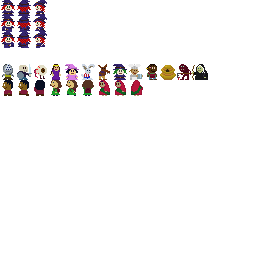
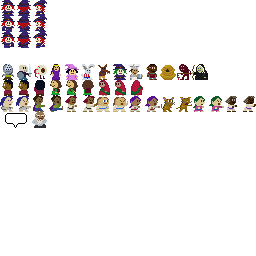
karate kids

Changed region(s): [[0.0, 0.375, 1.0, 0.5], [0.5312, 0.2812, 0.5625, 0.3125], [0.5, 0.25, 0.5312, 0.2812]]

diff --git a/src/game/sprite/types/sprite_karate.c b/src/game/sprite/types/sprite_karate.c
@@ -1,0 +1,187 @@
+/* sprite_karate.c
+ * The little karate students in the gym.
+ * All karates in one scene coordinate with each other.
+ */
+ 
+#include "game/bee.h"
+#include "game/battle/dict.h"
+
+#define KARATE_ATTACK_TIME 0.500
+#define KARATE_IDLE_TIME 1.000
+#define KARATE_INITIAL_DELAY 3.000
+
+/* Object definition.
+ */
+ 
+struct sprite_karate {
+  struct sprite hdr;
+  int principal; // One karate at a time is the principal, and it does most of the work.
+  uint8_t tileid0;
+  double clock;
+  int attacker; // Which karate, counting backward thru GRP(KEEPALIVE), is currently attacking? If <0, nobody is.
+  int otherc;
+  int texid; // Text in word bubble.
+  int texw,texh;
+};
+
+#define SPRITE ((struct sprite_karate*)sprite)
+#define OTHER ((struct sprite_karate*)other)
+
+/* Cleanup.
+ */
+ 
+static void _karate_del(struct sprite *sprite) {
+  egg_texture_del(SPRITE->texid);
+}
+
+/* Init.
+ */
+ 
+static int _karate_init(struct sprite *sprite) {
+  SPRITE->attacker=-1;
+  SPRITE->clock=KARATE_INITIAL_DELAY;
+  
+  int otherc=0;
+  int i=GRP(KEEPALIVE)->spritec;
+  while (i-->0) {
+    const struct sprite *other=GRP(KEEPALIVE)->spritev[i];
+    if (other==sprite) continue;
+    if (other->type==&sprite_type_karate) {
+      otherc++;
+    }
+  }
+  if (!otherc) {
+    SPRITE->principal=1;
+  } else {
+    sprite->xform=(otherc&1)?EGG_XFORM_XREV:0;
+    sprite->tileid+=(otherc&7)*2;
+  }
+  SPRITE->tileid0=sprite->tileid;
+  
+  return 0;
+}
+
+/* Pick one of the karate sprites at random, update local state, and return it.
+ */
+ 
+static struct sprite *karate_get_next_attacker(struct sprite *sprite) {
+  SPRITE->attacker=-1;
+  
+  // Count the karate sprites, including myself. This is done lazy at the first update.
+  if (SPRITE->otherc<1) {
+    SPRITE->otherc=0;
+    int i=GRP(KEEPALIVE)->spritec;
+    while (i-->0) {
+      struct sprite *other=GRP(KEEPALIVE)->spritev[i];
+      if (other->type!=&sprite_type_karate) continue;
+      SPRITE->otherc++;
+    }
+    if (SPRITE->otherc<1) return 0; // huh?
+  }
+  
+  // Pick one. I think random is better than sequential.
+  int p=rand()%SPRITE->otherc;
+  int i=GRP(KEEPALIVE)->spritec;
+  while (i-->0) {
+    struct sprite *other=GRP(KEEPALIVE)->spritev[i];
+    if (other->type!=&sprite_type_karate) continue;
+    SPRITE->attacker++;
+    if (!p--) return other;
+  }
+  
+  // Oops.
+  SPRITE->attacker=-1;
+  return 0;
+}
+
+/* Current attacker.
+ */
+ 
+static struct sprite *karate_get_current_attacker(const struct sprite *sprite) {
+  if (SPRITE->attacker<0) return 0;
+  int p=SPRITE->attacker;
+  int i=GRP(KEEPALIVE)->spritec;
+  while (i-->0) {
+    struct sprite *other=GRP(KEEPALIVE)->spritev[i];
+    if (other->type!=&sprite_type_karate) continue;
+    if (!p--) return other;
+  }
+  return 0;
+}
+
+/* Pick a 2-letter word and render it to SPRITE->texid.
+ */
+ 
+static void karate_refresh_word(struct sprite *sprite) {
+  struct dict_bucket bucket={0};
+  dict_get_bucket(&bucket,RID_dict_nwl2023,2);
+  if (bucket.c<1) return;
+  int p=rand()%bucket.c;
+  char word[3]={0,0,'!'};
+  memcpy(word,bucket.v+p*3,2);
+  egg_texture_del(SPRITE->texid);
+  SPRITE->texid=font_tex_oneline(g.font,word,3,TILESIZE*2,0x000000ff);
+  egg_texture_get_status(&SPRITE->texw,&SPRITE->texh,SPRITE->texid);
+}
+
+/* Update.
+ */
+ 
+static void _karate_update(struct sprite *sprite,double elapsed) {
+  if (!SPRITE->principal) return;
+  if ((SPRITE->clock-=elapsed)>0.0) return;
+  
+  // Pick somebody to start attacking.
+  if (SPRITE->attacker<0) {
+    SPRITE->clock+=KARATE_ATTACK_TIME;
+    struct sprite *other=karate_get_next_attacker(sprite);
+    if (!other) return; // Should never happen; we are a karate too.
+    OTHER->hdr.tileid=OTHER->tileid0+1;
+    karate_refresh_word(sprite);
+    return;
+  }
+  
+  // End the current attack.
+  SPRITE->clock+=KARATE_IDLE_TIME;
+  struct sprite *other=karate_get_current_attacker(sprite);
+  if (!other) return;
+  OTHER->hdr.tileid=OTHER->tileid0;
+  SPRITE->attacker=-1;
+}
+
+/* Bump.
+ */
+ 
+static void _karate_bump(struct sprite *sprite) {
+  int index=20+rand()%5;
+  modal_message_begin_single(RID_strings_dialogue,index);
+}
+
+/* Render word bubble.
+ * Regular rendering uses the built-in facilities.
+ */
+ 
+static void _karate_render_post(struct sprite *sprite,int16_t addx,int16_t addy) {
+  if (!SPRITE->principal) return;
+  struct sprite *other=karate_get_current_attacker(sprite);
+  if (!other) return;
+  int texid=texcache_get_image(&g.texcache,sprite->imageid);
+  int16_t dstx=(int16_t)(other->x*TILESIZE)+addx;
+  int16_t dsty=(int16_t)(other->y*TILESIZE)+addy;
+  graf_draw_tile(&g.graf,texid,dstx-(TILESIZE>>1),dsty-TILESIZE,SPRITE->tileid0+0x10,0);
+  graf_draw_tile(&g.graf,texid,dstx+(TILESIZE>>1),dsty-TILESIZE,SPRITE->tileid0+0x11,0);
+  graf_draw_decal(&g.graf,SPRITE->texid,dstx-(SPRITE->texw>>1),dsty-TILESIZE-(SPRITE->texh>>1)-1,0,0,SPRITE->texw,SPRITE->texh,0);
+}
+
+/* Type definition.
+ */
+ 
+const struct sprite_type sprite_type_karate={
+  .name="karate",
+  .objlen=sizeof(struct sprite_karate),
+  .del=_karate_del,
+  .init=_karate_init,
+  .update=_karate_update,
+  .render_post=_karate_render_post,
+  .bump=_karate_bump,
+};

diff --git a/src/tool/tool_compile_sprite.c b/src/tool/tool_compile_sprite.c
@@ -19,6 +19,34 @@ static int sprtid_eval(const char *src,int srcc) {
   return -1;
 }
 
+/* Sprite group names.
+ * Zero if invalid. Only valid if at least one group name is present.
+ */
+ 
+static int eval_sprite_group(const char *src,int srcc) {
+  #define _(lower,upper) if ((srcc==sizeof(#lower)-1)&&!memcmp(src,#lower,srcc)) return SPRITE_GROUP_##upper;
+  _(visible,VISIBLE)
+  _(update,UPDATE)
+  _(hero,HERO)
+  _(solid,SOLID)
+  #undef _
+  return 0;
+}
+ 
+static int eval_sprite_groups(const char *src,int srcc) {
+  int srcp=0,groups=0;
+  while (srcp<srcc) {
+    if (src[srcp]==',') { srcp++; continue; }
+    const char *token=src+srcp;
+    int tokenc=0;
+    while ((srcp<srcc)&&(src[srcp++]!=',')) tokenc++;
+    int group=eval_sprite_group(token,tokenc);
+    if (!group) return 0;
+    groups|=group;
+  }
+  return groups;
+}
+
 /* Custom parameters.
  */
  
@@ -28,6 +56,13 @@ static int eval_sprite_param(struct sr_encoder *dst,const char *src,int srcc) {
   int sprtid=sprtid_eval(src,srcc);
   if (sprtid>=0) {
     if (sr_encode_intbe(dst,sprtid,2)<0) return -1;
+    return 1;
+  }
+  
+  // Comma-delimited group names emit as 4 bytes.
+  int groups=eval_sprite_groups(src,srcc);
+  if (groups) {
+    if (sr_encode_intbe(dst,groups,4)<0) return -1;
     return 1;
   }
   

diff --git a/src/game/sprite/sprite_group.c b/src/game/sprite/sprite_group.c
@@ -216,7 +216,8 @@ void sprite_group_update(struct sprite_group *group,double elapsed) {
   
 void sprite_group_render(struct sprite_group *group,int16_t addx,int16_t addy) {
   //TODO sort?
-  int imageid=0,texid=0;
+  //TODO don't render if fully offscreen.
+  int imageid=0,texid=0,has_post=0;
   int i=0; for (;i<group->spritec;i++) {
     struct sprite *sprite=group->spritev[i];
     if (sprite->type->render) {
@@ -230,6 +231,15 @@ void sprite_group_render(struct sprite_group *group,int16_t addx,int16_t addy) {
       int16_t dstx=(int16_t)(sprite->x*TILESIZE)+addx;
       int16_t dsty=(int16_t)(sprite->y*TILESIZE)+addy;
       graf_draw_tile(&g.graf,texid,dstx,dsty,sprite->tileid,sprite->xform);
+    }
+    if (sprite->type->render_post) has_post=1;
+  }
+  if (has_post) {
+    for (i=0;i<group->spritec;i++) {
+      struct sprite *sprite=group->spritev[i];
+      if (sprite->type->render_post) {
+        sprite->type->render_post(sprite,addx,addy);
+      }
     }
   }
 }

diff --git a/src/game/sprite/types/sprite_dialogue.c b/src/game/sprite/types/sprite_dialogue.c
@@ -1,0 +1,29 @@
+/* sprite_dialogue.c
+ * A dummy sprite that speaks when bumped.
+ */
+ 
+#include "game/bee.h"
+ 
+struct sprite_dialogue {
+  struct sprite hdr;
+  int stringsid,index;
+};
+
+#define SPRITE ((struct sprite_dialogue*)sprite)
+
+static int _dialogue_init(struct sprite *sprite) {
+  SPRITE->stringsid=sprite->spawnarg>>16;
+  SPRITE->index=sprite->spawnarg&0xffff;
+  return 0;
+}
+
+static void _dialogue_bump(struct sprite *sprite) {
+  modal_message_begin_single(SPRITE->stringsid,SPRITE->index);
+}
+
+const struct sprite_type sprite_type_dialogue={
+  .name="dialogue",
+  .objlen=sizeof(struct sprite_dialogue),
+  .init=_dialogue_init,
+  .bump=_dialogue_bump,
+};

diff --git a/src/game/sprite/sprite.h b/src/game/sprite/sprite.h
@@ -35,6 +35,7 @@ struct sprite_type {
   int (*init)(struct sprite *sprite);
   void (*update)(struct sprite *sprite,double elapsed);
   void (*render)(struct sprite *sprite,int16_t addx,int16_t addy);
+  void (*render_post)(struct sprite *sprite,int16_t addx,int16_t addy); // After all sprites rendered, eg for word bubbles.
   void (*bump)(struct sprite *sprite);
 };
 
@@ -106,7 +107,9 @@ static inline void sprite_kill_soon(struct sprite *sprite) { sprite_group_add(GR
   _(foe) \
   _(kitchen) \
   _(merchant) \
-  _(customer)
+  _(customer) \
+  _(karate) \
+  _(dialogue)
   
 #define _(tag) extern const struct sprite_type sprite_type_##tag;
 SPRITE_TYPE_FOR_EACH

diff --git a/README.md b/README.md
@@ -43,7 +43,7 @@ Gives us about 57k words in a 400 kB resource.
 - [ ] Proper maps.
 - - [ ] Cemetery
 - - [ ] Laboratory
-- - [ ] Gym
+- - [x] Gym
 - - - [x] Tune the gauntlet better. I think we really do need artificial battle massaging.
 - - - - First try (killed most immediately): 47 HP, 64 XP
 - - - - After bagging: 39 HP, 58 XP. I had a weak start. There are too many monsters, but the principle seems good.
@@ -59,6 +59,7 @@ Gives us about 57k words in a 400 kB resource.
 - - - - Same, but make them charge instantly: I can't even get east of the wall.
 - - - - Normal foe, but delaying my first strike until charge begins: Reached Rabbit with exactly one HP. Took about 10 min.
 - - - - Again playing hard: 8 min, 72 HP, 26 XP. I'm sure I can reach the rabbit with 100 HP... have to prove it tho.
+- - - - ...ok I've got thru with 100 HP, even past the rabbit :)
 - - [ ] Garden
 - - [ ] Cellar
 - - [ ] Queen's Chambers
@@ -73,3 +74,5 @@ Gives us about 57k words in a 400 kB resource.
 - - [ ] Robin
 - - [ ] Ladybug
 - [x] Need a helper in the editor for setting kitchen sprite params.
+- [ ] Make foe sprites turn to face the hero.
+- [ ] After a boss battle, show the book recovered, fill HP, and warp to start.
